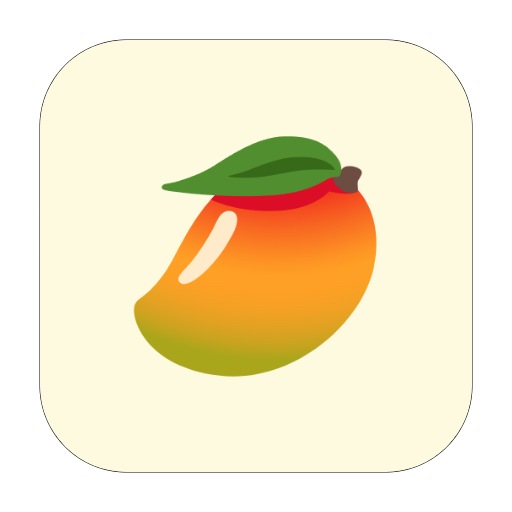
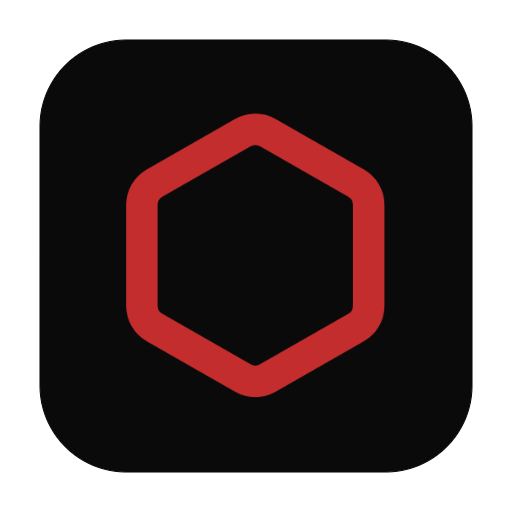
Bakcup - v0.1.0

diff --git a/src/components/sidebars/menu-options.tsx b/src/components/sidebars/menu-options.tsx
@@ -4,6 +4,7 @@ import {
   AgencySidebarOption,
   SubAccount,
   SubAccountSidebarOption,
+  Website,
 } from "@prisma/client";
 import React, { useEffect, useMemo, useState } from "react";
 import {
@@ -13,9 +14,7 @@ import {
   SheetTitle,
   SheetTrigger,
 } from "../ui/sheet";
-import {
-  Menu,
-} from "lucide-react";
+import { ExternalLink, Menu } from "lucide-react";
 import clsx from "clsx";
 import {
   Command,
@@ -34,7 +33,8 @@ import { Button } from "@/components/ui/button";
 // import SubAccountForm from "../forms/subaccount-form";
 import { usePathname } from "next/navigation";
 import { cn } from "@/lib/utils";
-import Image from 'next/image';
+import Image from "next/image";
+import { env } from "@/lib/env.config";
 
 type Props = {
   defaultOpen?: boolean;
@@ -42,6 +42,7 @@ type Props = {
   sidebarOptions: AgencySidebarOption[] | SubAccountSidebarOption[];
   sidebarLogo: string;
   details: any;
+  website?: Website;
   user: any;
   id: string;
 };
@@ -68,6 +69,7 @@ const MenuOptions = ({
   // subAccounts,
   sidebarOptions,
   details,
+  website,
 }: // user,
 Props) => {
   // const { setOpen } = useModal();
@@ -109,170 +111,14 @@ Props) => {
         </SheetDescription>
         <div>
           <div className="w-full text-2xl font-extrabold px-3 flex items-center gap-2">
-            <Image src={details.agencyLogo} height={30} width={30} alt='Agency Logo' />
+            <Image
+              src={details.agencyLogo}
+              height={30}
+              width={30}
+              alt="Agency Logo"
+            />
             {details.name}
           </div>
-          {/* <Popover>
-            <PopoverTrigger asChild>
-              <Button
-                className="w-full my-4 flex items-center justify-between py-8"
-                variant="ghost">
-                <div className="flex items-center text-left gap-2">
-                  <Compass />
-                  <div className="flex flex-col">
-                    {details.name}
-                    <span className="text-muted-foreground">
-                      {details.address}
-                    </span>
-                  </div>
-                </div>
-                <div>
-                  <ChevronsUpDown size={16} className="text-muted-foreground" />
-                </div>
-              </Button>
-            </PopoverTrigger>
-            <PopoverContent className="w-80 h-80 mt-4 z-[200]">
-              <Command className="rounded-lg">
-                <CommandInput placeholder="Buscar cuenta..." />
-                <CommandList className="pb-16">
-                  <CommandEmpty>No se encontraron resultados</CommandEmpty>
-                  {(user?.role === "AGENCY_OWNER" ||
-                    user?.role === "AGENCY_ADMIN") &&
-                    user?.Agency && (
-                      <CommandGroup heading="Marca">
-                        <CommandItem className="!bg-transparent my-2 text-primary broder-[1px] border-border p-2 rounded-md hover:!bg-muted cursor-pointer transition-al">
-                          {defaultOpen ? (
-                            <Link
-                              href={`/agency/${user?.Agency?.id}`}
-                              className="flex gap-4 w-full h-full">
-                              <div className="relative w-16">
-                                {user?.Agency?.agencyLogo !== "" ? (
-                                  <Image
-                                    src={user?.Agency?.agencyLogo}
-                                    alt="Agency Logo"
-                                    fill
-                                    className="rounded-md object-contain"
-                                  />
-                                ) : (
-                                  <div className="w-full h-full flex items-center justify-center">
-                                    <HelpCircle className="!h-8 !w-8" />
-                                  </div>
-                                )}
-                              </div>
-                              <div className="flex flex-col flex-1">
-                                {user?.Agency?.name}
-                                <span className="text-muted-foreground">
-                                  {user?.Agency?.address}
-                                </span>
-                              </div>
-                            </Link>
-                          ) : (
-                            <SheetClose asChild>
-                              <Link
-                                href={`/agency/${user?.Agency?.id}`}
-                                className="flex gap-4 w-full h-full">
-                                <div className="relative w-16">
-                                  {user?.Agency?.agencyLogo !== "" ? (
-                                    <Image
-                                      src={user?.Agency?.agencyLogo}
-                                      alt="Agency Logo"
-                                      fill
-                                      className="rounded-md object-contain"
-                                    />
-                                  ) : (
-                                    <div className="w-full h-full flex items-center justify-center">
-                                      <HelpCircle className="!h-8 !w-8" />
-                                    </div>
-                                  )}
-                                </div>
-                                <div className="flex flex-col flex-1">
-                                  {user?.Agency?.name}
-                                  <span className="text-muted-foreground">
-                                    {user?.Agency?.address}
-                                  </span>
-                                </div>
-                              </Link>
-                            </SheetClose>
-                          )}
-                        </CommandItem>
-                      </CommandGroup>
-                    )}
-                  <CommandGroup heading="Cuentas">
-                    {!!subAccounts
-                      ? subAccounts.map((subaccount) => (
-                          <CommandItem
-                            key={subaccount.id}
-                            className=" data-[selected=true]:!bg-accent dark:data-[selected=true]:!bg-accent">
-                            {defaultOpen ? (
-                              <Link
-                                href={`/subaccount/${subaccount.id}`}
-                                className="flex gap-4 w-full h-full">
-                                <div className="relative w-16">
-                                  <Image
-                                    src={subaccount.subAccountLogo}
-                                    alt="subaccount Logo"
-                                    fill
-                                    className="rounded-md object-contain"
-                                  />
-                                </div>
-                                <div className="flex flex-col flex-1">
-                                  {subaccount.name}
-                                  <span className="text-muted-foreground">
-                                    {subaccount.address}
-                                  </span>
-                                </div>
-                              </Link>
-                            ) : (
-                              <SheetClose asChild>
-                                <Link
-                                  href={`/subaccount/${subaccount.id}`}
-                                  className="flex gap-4 w-full h-full">
-                                  <div className="relative w-16">
-                                    <Image
-                                      src={subaccount.subAccountLogo}
-                                      alt="subaccount Logo"
-                                      fill
-                                      className="rounded-md object-contain"
-                                    />
-                                  </div>
-                                  <div className="flex flex-col flex-1">
-                                    {subaccount.name}
-                                    <span className="text-muted-foreground">
-                                      {subaccount.address}
-                                    </span>
-                                  </div>
-                                </Link>
-                              </SheetClose>
-                            )}
-                          </CommandItem>
-                        ))
-                      : "No Accounts"}
-                  </CommandGroup>
-                </CommandList>
-                {(user?.role === "AGENCY_OWNER" ||
-                  user?.role === "AGENCY_ADMIN") && (
-                  <Button
-                    className="w-full flex gap-2"
-                    onClick={() => {
-                      setOpen(
-                        <CustomModal
-                          title="Crea una subcuenta"
-                          subheading="Puedes cambiar entre la cuenta de tu marca y las subcuentas en cualquier momento.">
-                          <SubAccountForm
-                            agencyDetails={user?.Agency as Agency}
-                            userId={user?.id as string}
-                            userName={user?.name}
-                          />
-                        </CustomModal>
-                      );
-                    }}>
-                    <PlusCircleIcon size={15} color="white" />
-                    <span className="text-white">Crea una subcuenta</span>
-                  </Button>
-                )}
-              </Command>
-            </PopoverContent>
-          </Popover> */}
           <Separator className="mt-8" />
           <nav className="relative">
             <Command className="rounded-lg overflow-visible bg-transparent">
@@ -311,6 +157,17 @@ Props) => {
                         </CommandItem>
                       );
                     })}
+                  {website && (
+                    <CommandItem className="md:w-[320px] w-full  hover:bg-red-500/20 dark:hover:bg-red-500/30 !p-0">
+                      <Link
+                        href={`${env.SCHEME}${website.domain}.${env.DOMAIN}/`}
+                        target="_blank"
+                        className="flex items-center gap-2 hover:bg-transparent rounded-md transition-all md:w-full w-[320px] px-2 py-1.5">
+                        <ExternalLink />
+                        <span>Ir a la página</span>
+                      </Link>
+                    </CommandItem>
+                  )}
                 </CommandGroup>
               </CommandList>
             </Command>

diff --git a/src/components/sidebars/index.tsx b/src/components/sidebars/index.tsx
@@ -1,4 +1,4 @@
-import { getAuthUserDetails } from "@/lib/queries";
+import { getAuthUserDetails, getWebsiteByAgencyId } from "@/lib/queries";
 import React from "react";
 import MenuOptions from "./menu-options";
 
@@ -12,6 +12,8 @@ const Sidebar = async ({ id, type }: Props) => {
   if (!user) return null;
   if (!user.Agency) return;
 
+  const website = await getWebsiteByAgencyId(user.Agency.id);
+
   const details =
     type === "agency"
       ? user?.Agency
@@ -20,7 +22,7 @@ const Sidebar = async ({ id, type }: Props) => {
   const isWhiteLabeledAgency = user.Agency.whiteLabel;
   if (!details) return null;
 
-  let sidebarLogo = user.Agency.agencyLogo || "/assets/svg/mango.svg";
+  let sidebarLogo = user.Agency.agencyLogo || "/assets/svg/hexagon.svg";
 
   if (!isWhiteLabeledAgency) {
     if (type === "subaccount") {
@@ -48,6 +50,7 @@ const Sidebar = async ({ id, type }: Props) => {
       <MenuOptions
         defaultOpen={true}
         details={details}
+        website={website || undefined}
         id={id}
         sidebarLogo={sidebarLogo}
         sidebarOptions={sidebarOptions}
@@ -57,6 +60,7 @@ const Sidebar = async ({ id, type }: Props) => {
 
       <MenuOptions
         details={details}
+        website={website || undefined}
         id={id}
         sidebarLogo={sidebarLogo}
         sidebarOptions={sidebarOptions}

diff --git a/src/lib/queries.ts b/src/lib/queries.ts
@@ -956,6 +956,24 @@ export const getWebsiteByDomain = async (domain: string) => {
   }
 };
 
+export const getWebsiteByAgencyId = async (agencyId: string) => {
+  if (!agencyId) return null;
+
+  try {
+    const response = await db.website.findUnique({
+      where: {
+        agencyId: agencyId,
+      },
+    });
+
+    return response;
+  } catch (error) {
+    if (error instanceof Error) {
+      console.log("Error: ", error.stack);
+    }
+  }
+};
+
 export const upsertWebsite = async (website: Website) => {
   if (!website.id) return null;
   try {

diff --git a/src/app/site/_components/navbar.tsx b/src/app/site/_components/navbar.tsx
@@ -34,7 +34,7 @@ export function Navbar({ id }: NavbarProps): React.JSX.Element {
         <div className="flex items-center">
           <Link href="/" className="flex items-center justify-center gap-2">
             <Image
-              src={"/assets/svg/mango.svg"}
+              src={"/assets/svg/hexagon.svg"}
               height={25}
               width={25}
               alt="Mango"

diff --git a/src/components/footer.tsx b/src/components/footer.tsx
@@ -12,7 +12,7 @@ export default function Footer() {
             <div className="space-y-8 xl:col-span-1">
               <span className="flex items-center gap-2">
                 <Image
-                  src={"/assets/svg/mango.svg"}
+                  src={"/assets/svg/hexagon.svg"}
                   height={40}
                   width={40}
                   alt="Mango"

diff --git a/src/app/(main)/agency/(auth)/_components/navbar.tsx b/src/app/(main)/agency/(auth)/_components/navbar.tsx
@@ -13,7 +13,7 @@ export function Navbar() {
         <div className="flex items-center">
           <Link href="/" className="flex items-center justify-center gap-2">
             <Image
-              src={"/assets/svg/mango.svg"}
+              src={"/assets/svg/hexagon.svg"}
               height={25}
               width={25}
               alt="Mango"
